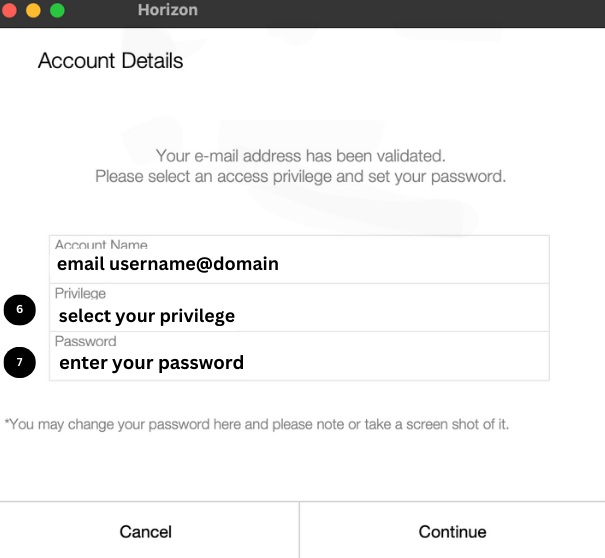
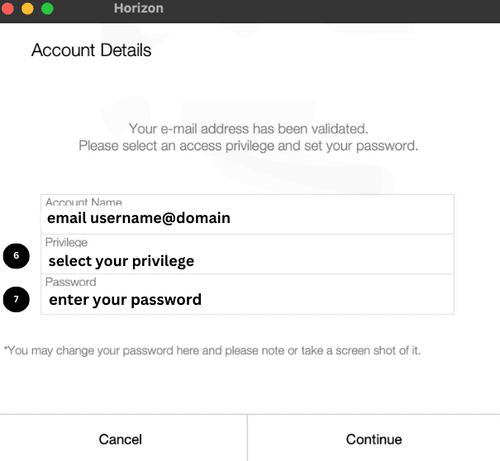
Update Creating a Horizon Account

diff --git a/Horizon User Guide/II. Getting Started/B. Creating a Horizon Account.md b/Horizon User Guide/II. Getting Started/B. Creating a Horizon Account.md
@@ -37,8 +37,8 @@ With your Horizon account, you can access all Horizon files, including Parties, 
 4. **Assign Privilege:**
     
     - Select a **FileMaker privilege** based on the user's role (e.g., manager, chef). Click **Add Account**.
-
-![](https://github.com/Fx-Professional-Services/HorizonDocs/blob/main/assets/6_create%20an%20account%20for%20another%20user.png)
+    
+![](https://github.com/Fx-Professional-Services/HorizonDocs/blob/main/assets/2_create%20_account_another_user.png)
 
 5. **Email Confirmation:**
     
